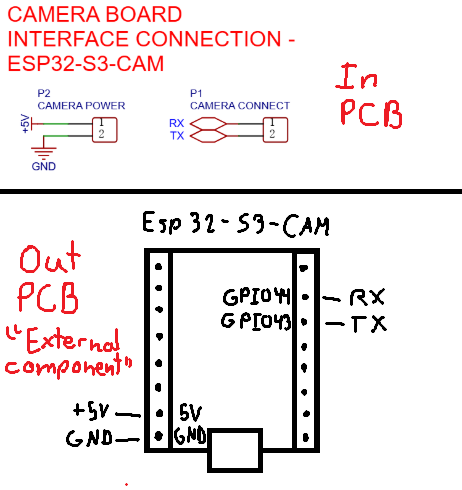
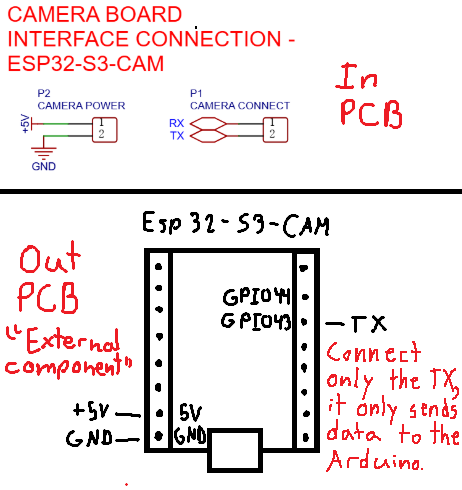
Note outdated labels in schematic image; update wiring diagram and camera/TOF PCB block images
Claude-Session: https://claude.ai/code/session_01P9CceasMPMD5JAP9GaWWFK

diff --git a/schemes/README.md b/schemes/README.md
@@ -39,8 +39,18 @@ All the electronics are mounted on a **custom PCB that we designed in EasyEDA an
 ## 2. Schematic
 
 <div align="center">
-  <img src="schematic.png" alt="PCB schematic" width="800">
+  <img src="schematic.png" alt="PCB schematic (two outdated labels: see note below)" width="800">
+  <br><em>Schematic drawn on 8 July 2026, before the final components were chosen. <strong>Two labels in the image are outdated:</strong> it says "ARDUINO NANO ESP32" (the car uses the classic <strong>Arduino Nano</strong>, ATmega328P) and "SG90" (the car uses the <strong>MG90</strong> metal-gear servo).</em>
 </div>
+
+> **Note — outdated schematic image.** We drew `schematic.png` before changing these two parts and did not redraw it, because the PCB itself did not change. Only the labels are outdated:
+>
+> | In the image | On the real car | Why it is the same board |
+> |---|---|---|
+> | Arduino Nano ESP32 | Arduino Nano (classic, ATmega328P) | Same pin positions and footprint; it replaced the first controller after that board was damaged (journal Problem 31) |
+> | SG90 servo | MG90 servo (metal gears) | Pin-compatible; the SG90 moved inside its mount (journal Problem 8) |
+>
+> Everything else in the schematic (power stage, TB6612FNG, TOF sensors, BMI160, camera connector) matches the car. The bill of materials in section 1 lists the parts actually installed. The wiring diagram (section 3) and the PCB block images (section 6.4) for the camera and TOF connectors are the updated versions.
 
 The schematic is organised in functional blocks. It was drawn for our first main controller board; the classic Arduino Nano now used has the same pin positions, so the board is unchanged.
 
